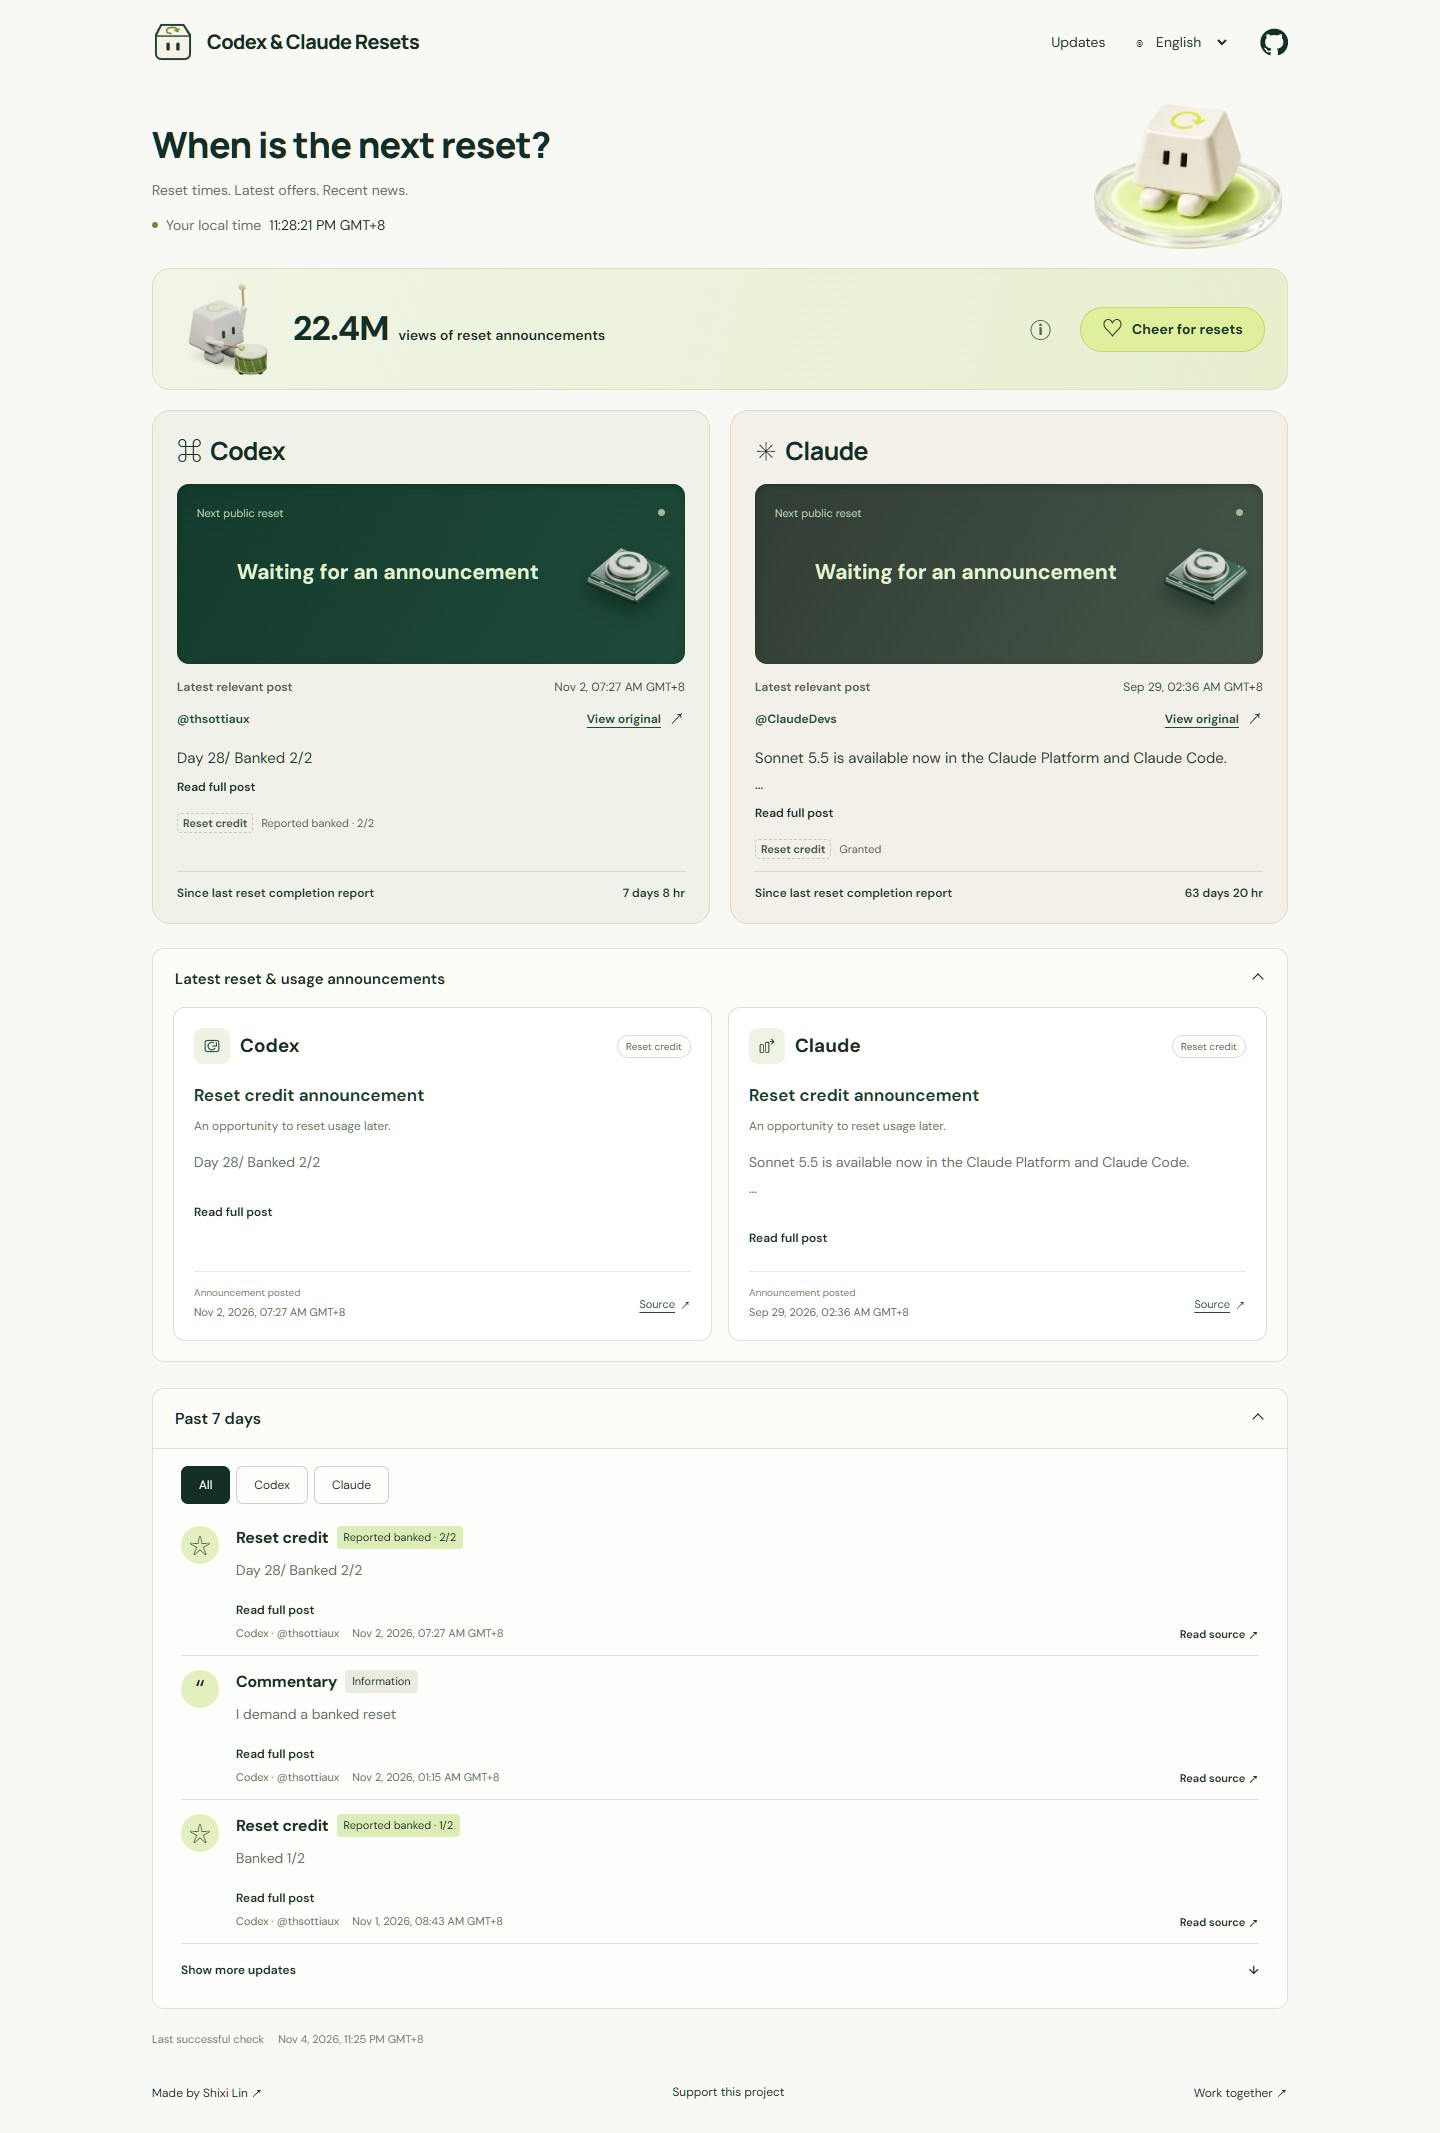
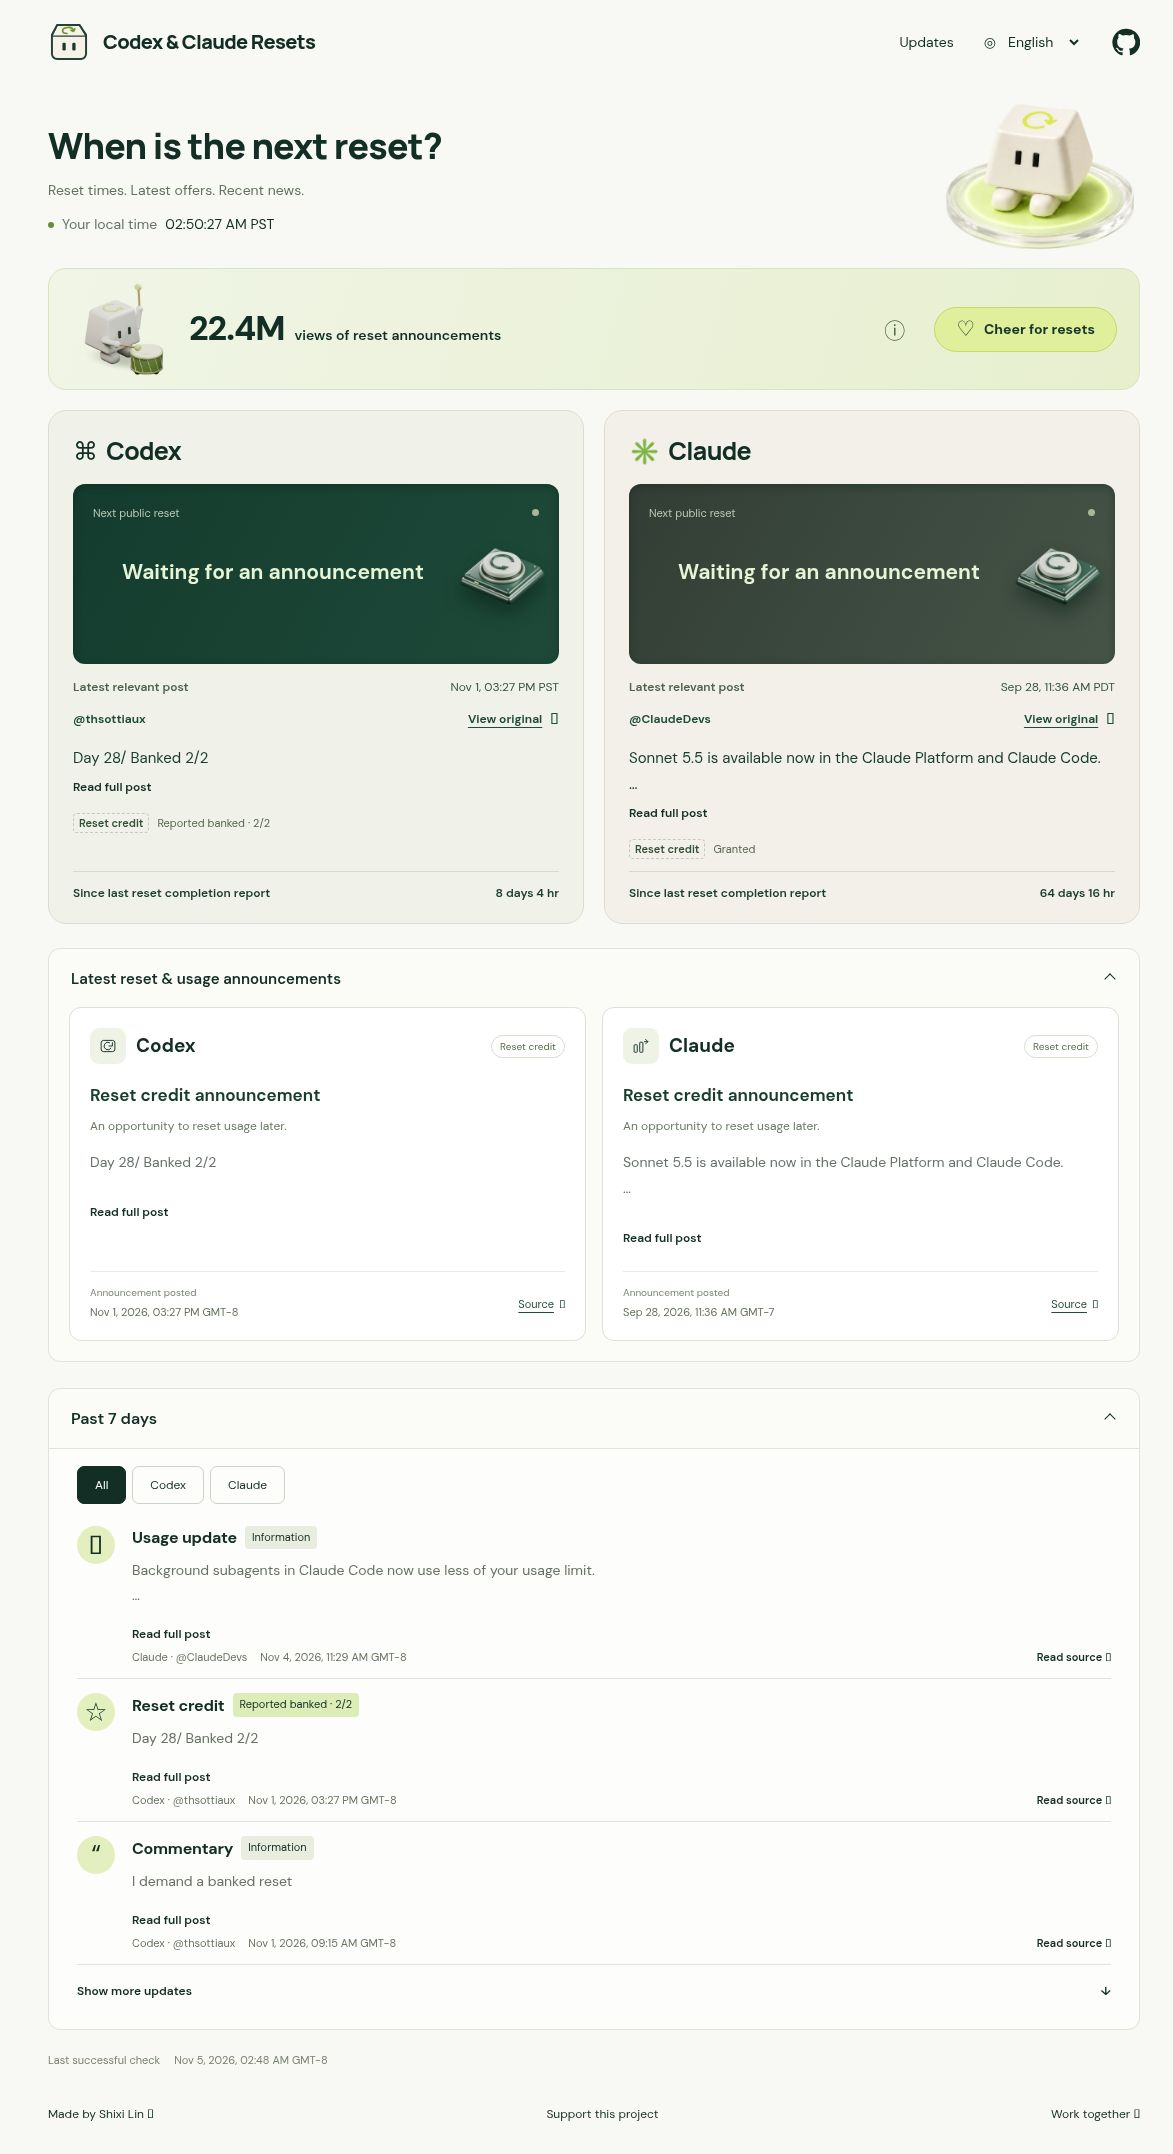
docs: capture verified Claude source recovery in production

diff --git a/docs/nov5-claude-id-recovery.md b/docs/nov5-claude-id-recovery.md
@@ -24,4 +24,12 @@ An ID response establishes coverage only through direct own root posts with the 
 - An independent focused review passed 20 tests with no blocking findings.
 - An isolated live collector at 2026-11-05T10:44:02.960Z naturally encountered handle 404s for both Tibo and ClaudeDevs and recovered through their respective IDs. All six timelines and nine official embeds succeeded. This was a live isolated validation, not a production deployment. Its 162 events retained the same IDs, classification, source publication times, reset times, plan fields and full text. No isolated data was copied into the repository.
 
-After normal merge, verify the exact main workflow and production data, inspect the live EN/ZH desktop/mobile pages, capture the deployed page into docs/screenshot.jpg, and pin README to that image commit as required by AGENTS.md. Do not bypass branch protection or suppress coverage/staleness alerts to obtain a green result.
+## Production verification
+
+PR #57 was normally merged as 1a382860c27a7b7387a03a76f220ec07bbcd797f without changing branch protection. Its [main workflow 42013696787](https://github.com/shixi-11/codex-claude-resets/actions/runs/42013696787) passed all 187 tests, collection, validation, build and publication. The collector wrote data commit 6e52273726bb5a257ed60b7216e78053e93c899a.
+
+The public health endpoint now reports 2026-11-05T10:48:32.903Z as the last complete successful check, with Codex and Claude both healthy, all six timelines successful, and nine official embeds checked with zero failures. In this production run both handles themselves returned 200. The naturally failing 404-to-ID recovery was proven in the isolated live run above, not in this production run. This distinction is intentional.
+
+The live English and Simplified Chinese desktop pages were visually checked after deployment. Both retained the existing reset-credit/completion distinctions and latest usage post, and displayed the new successful check time without the stale-source warning. Images loaded and no horizontal overflow was observed. No frontend content or styling was changed. A fresh full-page English production screenshot was captured at approximately 10:50 UTC for docs/screenshot.jpg and README's immutable image reference. Mobile layout was not re-tested in this backend-only change.
+
+The existing unrelated Tibo review item remains pending. Scheduling cadence and alert thresholds are unchanged; this repair does not guarantee against future upstream outages or GitHub scheduling delays.
